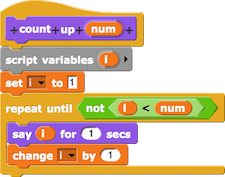
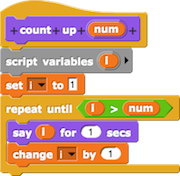
make consistent ranges in count-up functions

diff --git a/cur/programming/python/printing_while_loops.html b/cur/programming/python/printing_while_loops.html
@@ -22,22 +22,7 @@
                 </td>
               </tr>
           </table>
-          <p>
-              Calling the python <code>count_up(num)</code> function with an input produces the following result. (If you'd like you can define <code>count_up</code> yourself, using the code shown on the previous page.)
-          </p>
-          <p><pre><code>
->>> count_up(5)
-1
-2
-3
-4
-        </code></pre></p>
-        <p class="alert alert-warning quoteOrange">
-            Notice how <code>count_up</code> did not include the input value 5? Remember back to the discussion of the <code>range(x,y)</code> function on the previous page. It produces a list that does not include the value <code>y</code> itself. To include the final value, the <code>for</code> loop must be changed to:
-        </p>
-        <p><pre><code>
-for i in range(1, num + 1):
-        </code></pre></p>
+
         <h3>While Loop</h3>
         <p>
             Below is the now familiar <code>count_up</code> function written using a <code>while</code> loop. Unlike the <code>for</code> loop, <code>while</code> does not have a built-in index variable (but we can easily define our own using the variable <code>i</code> below).

diff --git a/cur/programming/python/define_simple_function.html b/cur/programming/python/define_simple_function.html
@@ -40,7 +40,7 @@ def count_up(num):
 >>>
             </code></pre>
             <p class="alert alert-warning quoteOrange">
-                Make sure you notice: The iterable returned by range(x,y) does NOT include y.
+                Make sure you notice: The iterable returned by range(x,y) does NOT include y. For this reason, if we want the count-up to include the input <code>num</code>, the <code>count_up</code> function must use a range that goes from <code>1</code> to <code>num + 1</code>.
             </p>
     </body>
 </html>
